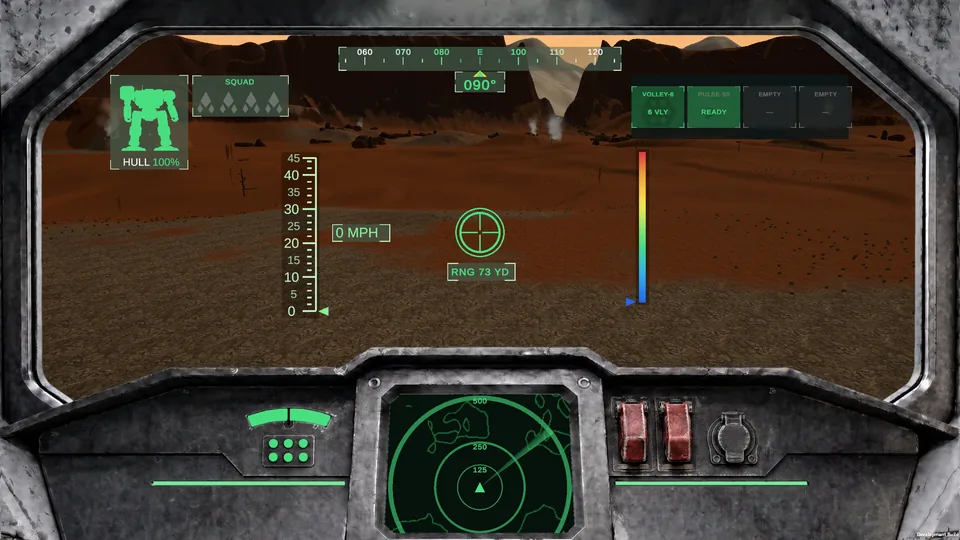
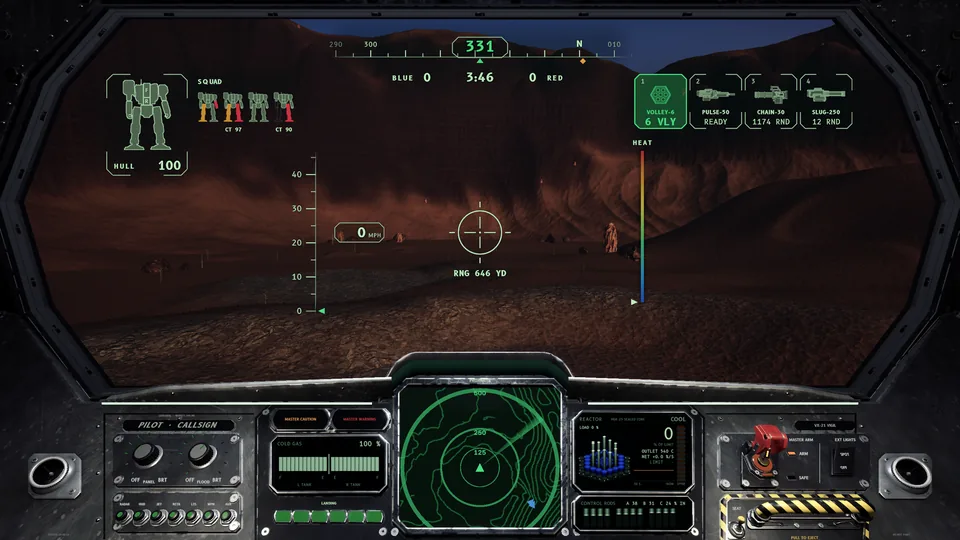
The cockpit picture in Feel the weight, from the new 3D cockpit

diff --git a/thereach/index.html b/thereach/index.html
@@ -18,15 +18,15 @@
   <meta property="og:image:height" content="630">
   <meta name="twitter:card" content="summary_large_image">
 
-  <link rel="icon" href="/favicon.svg?v=3fb1b8b1" type="image/svg+xml">
-  <link rel="icon" href="/favicon-32.png?v=3fb1b8b1" sizes="32x32" type="image/png">
+  <link rel="icon" href="/favicon.svg?v=bbf04369" type="image/svg+xml">
+  <link rel="icon" href="/favicon-32.png?v=bbf04369" sizes="32x32" type="image/png">
   <link rel="apple-touch-icon" href="/apple-touch-icon.png">
 
   <link rel="preload" href="/assets/fonts/BarlowCondensed/BarlowCondensed-SemiBold.ttf" as="font" type="font/ttf" crossorigin>
   <link rel="preload" href="/assets/img/sky-2560.webp" as="image" media="(min-width: 1281px)">
   <link rel="preload" href="/assets/img/sky-1280.webp" as="image" media="(max-width: 1280px)">
-  <link rel="stylesheet" href="/assets/site.css?v=3fb1b8b1">
-  <link rel="stylesheet" href="/drop/drop.css?v=3fb1b8b1">
+  <link rel="stylesheet" href="/assets/site.css?v=bbf04369">
+  <link rel="stylesheet" href="/drop/drop.css?v=bbf04369">
   <script>
     // Boarding: arriving from another site opens on the shipboard network, which assets/site.js draws. Nothing is
     // stored in the browser (the privacy page promises that): a reload, Back, or a link from this site skips it. This
@@ -41,20 +41,20 @@
       }
     } catch (error) { /* no boarding screen */ }
   </script>
-  <script src="/assets/ship.js?v=3fb1b8b1" defer></script>
-  <script src="/assets/prealpha.js?v=3fb1b8b1" defer></script>
-  <script src="/assets/crossing.js?v=3fb1b8b1" defer></script>
-  <script src="/assets/site.js?v=3fb1b8b1" defer></script>
-  <script src="/drop/drop.js?v=3fb1b8b1" defer></script>
-  <script src="/assets/patch.js?v=3fb1b8b1" defer></script>
-  <script src="/assets/patchmaker.js?v=3fb1b8b1" defer></script>
-  <script src="/assets/front.js?v=3fb1b8b1" defer></script>
-  <script src="/assets/loadouts.js?v=3fb1b8b1" defer></script>
-  <script src="/assets/bench.js?v=3fb1b8b1" defer></script>
-  <script src="/assets/valor.js?v=3fb1b8b1" defer></script>
-  <script src="/assets/ranks.js?v=3fb1b8b1" defer></script>
-  <script src="/assets/story.js?v=3fb1b8b1" defer></script>
-  <script src="/assets/lands.js?v=3fb1b8b1" defer></script>
+  <script src="/assets/ship.js?v=bbf04369" defer></script>
+  <script src="/assets/prealpha.js?v=bbf04369" defer></script>
+  <script src="/assets/crossing.js?v=bbf04369" defer></script>
+  <script src="/assets/site.js?v=bbf04369" defer></script>
+  <script src="/drop/drop.js?v=bbf04369" defer></script>
+  <script src="/assets/patch.js?v=bbf04369" defer></script>
+  <script src="/assets/patchmaker.js?v=bbf04369" defer></script>
+  <script src="/assets/front.js?v=bbf04369" defer></script>
+  <script src="/assets/loadouts.js?v=bbf04369" defer></script>
+  <script src="/assets/bench.js?v=bbf04369" defer></script>
+  <script src="/assets/valor.js?v=bbf04369" defer></script>
+  <script src="/assets/ranks.js?v=bbf04369" defer></script>
+  <script src="/assets/story.js?v=bbf04369" defer></script>
+  <script src="/assets/lands.js?v=bbf04369" defer></script>
 </head>
 <body>
   <a class="skip" href="#main">Skip to content</a>

diff --git a/hangar/index.html b/hangar/index.html
@@ -16,18 +16,18 @@
   <meta property="og:image:height" content="630">
   <meta name="twitter:card" content="summary_large_image">
   <meta name="theme-color" content="#07090d">
-  <link rel="icon" href="/favicon.svg?v=3fb1b8b1" type="image/svg+xml">
-  <link rel="icon" href="/favicon-32.png?v=3fb1b8b1" sizes="32x32" type="image/png">
+  <link rel="icon" href="/favicon.svg?v=bbf04369" type="image/svg+xml">
+  <link rel="icon" href="/favicon-32.png?v=bbf04369" sizes="32x32" type="image/png">
   <link rel="apple-touch-icon" href="/apple-touch-icon.png">
   <link rel="preload" href="/hangar/bay/plate.webp" as="image">
   <link rel="preload" href="/hangar/spin/base/vigil-000.webp" as="image">
-  <link rel="stylesheet" href="/assets/site.css?v=3fb1b8b1">
-  <link rel="stylesheet" href="/hangar/hangar.css?v=3fb1b8b1">
-  <script src="/assets/ship.js?v=3fb1b8b1" defer></script>
-  <script src="/assets/prealpha.js?v=3fb1b8b1" defer></script>
-  <script src="/assets/site.js?v=3fb1b8b1" defer></script>
-  <script src="/assets/loadouts.js?v=3fb1b8b1" defer></script>
-  <script src="/hangar/hangar.js?v=3fb1b8b1" defer></script>
+  <link rel="stylesheet" href="/assets/site.css?v=bbf04369">
+  <link rel="stylesheet" href="/hangar/hangar.css?v=bbf04369">
+  <script src="/assets/ship.js?v=bbf04369" defer></script>
+  <script src="/assets/prealpha.js?v=bbf04369" defer></script>
+  <script src="/assets/site.js?v=bbf04369" defer></script>
+  <script src="/assets/loadouts.js?v=bbf04369" defer></script>
+  <script src="/hangar/hangar.js?v=bbf04369" defer></script>
 </head>
 <body>
   <a class="skip" href="#hangar">Skip to content</a>

diff --git a/physics/index.html b/physics/index.html
@@ -16,15 +16,15 @@
   <meta property="og:image:height" content="630">
   <meta name="twitter:card" content="summary_large_image">
   <meta name="theme-color" content="#07090d">
-  <link rel="icon" href="/favicon.svg?v=3fb1b8b1" type="image/svg+xml">
-  <link rel="icon" href="/favicon-32.png?v=3fb1b8b1" sizes="32x32" type="image/png">
+  <link rel="icon" href="/favicon.svg?v=bbf04369" type="image/svg+xml">
+  <link rel="icon" href="/favicon-32.png?v=bbf04369" sizes="32x32" type="image/png">
   <link rel="apple-touch-icon" href="/apple-touch-icon.png">
-  <link rel="stylesheet" href="/assets/site.css?v=3fb1b8b1">
-  <link rel="stylesheet" href="/physics/physics.css?v=3fb1b8b1">
-  <script src="/assets/ship.js?v=3fb1b8b1" defer></script>
-  <script src="/assets/prealpha.js?v=3fb1b8b1" defer></script>
-  <script src="/assets/site.js?v=3fb1b8b1" defer></script>
-  <script src="/physics/physics.js?v=3fb1b8b1" defer></script>
+  <link rel="stylesheet" href="/assets/site.css?v=bbf04369">
+  <link rel="stylesheet" href="/physics/physics.css?v=bbf04369">
+  <script src="/assets/ship.js?v=bbf04369" defer></script>
+  <script src="/assets/prealpha.js?v=bbf04369" defer></script>
+  <script src="/assets/site.js?v=bbf04369" defer></script>
+  <script src="/physics/physics.js?v=bbf04369" defer></script>
 </head>
 <body>
   <a class="skip" href="#physics">Skip to content</a>

diff --git a/armory/index.html b/armory/index.html
@@ -16,15 +16,15 @@
   <meta property="og:image:height" content="630">
   <meta name="twitter:card" content="summary_large_image">
   <meta name="theme-color" content="#07090d">
-  <link rel="icon" href="/favicon.svg?v=3fb1b8b1" type="image/svg+xml">
-  <link rel="icon" href="/favicon-32.png?v=3fb1b8b1" sizes="32x32" type="image/png">
+  <link rel="icon" href="/favicon.svg?v=bbf04369" type="image/svg+xml">
+  <link rel="icon" href="/favicon-32.png?v=bbf04369" sizes="32x32" type="image/png">
   <link rel="apple-touch-icon" href="/apple-touch-icon.png">
-  <link rel="stylesheet" href="/assets/site.css?v=3fb1b8b1">
-  <link rel="stylesheet" href="/armory/armory.css?v=3fb1b8b1">
-  <script src="/assets/ship.js?v=3fb1b8b1" defer></script>
-  <script src="/assets/prealpha.js?v=3fb1b8b1" defer></script>
-  <script src="/assets/site.js?v=3fb1b8b1" defer></script>
-  <script src="/armory/armory.js?v=3fb1b8b1" defer></script>
+  <link rel="stylesheet" href="/assets/site.css?v=bbf04369">
+  <link rel="stylesheet" href="/armory/armory.css?v=bbf04369">
+  <script src="/assets/ship.js?v=bbf04369" defer></script>
+  <script src="/assets/prealpha.js?v=bbf04369" defer></script>
+  <script src="/assets/site.js?v=bbf04369" defer></script>
+  <script src="/armory/armory.js?v=bbf04369" defer></script>
 </head>
 <body>
   <a class="skip" href="#armory">Skip to content</a>

diff --git a/presskit/index.html b/presskit/index.html
@@ -7,10 +7,10 @@
   <meta name="description" content="Fact sheet, descriptions, art and logos for The Reach: Unknown, a persistent first-person mech war from Mach Tuck Games.">
   <link rel="canonical" href="https://machtuck.com/presskit/">
   <meta name="theme-color" content="#07090d">
-  <link rel="icon" href="/favicon.svg?v=3fb1b8b1" type="image/svg+xml">
-  <link rel="icon" href="/favicon-32.png?v=3fb1b8b1" sizes="32x32" type="image/png">
-  <link rel="stylesheet" href="/assets/site.css?v=3fb1b8b1">
-  <script src="/assets/prealpha.js?v=3fb1b8b1" defer></script>
+  <link rel="icon" href="/favicon.svg?v=bbf04369" type="image/svg+xml">
+  <link rel="icon" href="/favicon-32.png?v=bbf04369" sizes="32x32" type="image/png">
+  <link rel="stylesheet" href="/assets/site.css?v=bbf04369">
+  <script src="/assets/prealpha.js?v=bbf04369" defer></script>
 </head>
 <body class="doc-page">
   <header class="doc-bar">

diff --git a/welcome/index.html b/welcome/index.html
@@ -8,10 +8,10 @@
   <!-- Where Kit sends a pilot after the closed beta form (the form's redirect setting in Kit). Linked from nowhere on the site. -->
   <meta name="robots" content="noindex">
   <meta name="theme-color" content="#07090d">
-  <link rel="icon" href="/favicon.svg?v=3fb1b8b1" type="image/svg+xml">
-  <link rel="icon" href="/favicon-32.png?v=3fb1b8b1" sizes="32x32" type="image/png">
-  <link rel="stylesheet" href="/assets/site.css?v=3fb1b8b1">
-  <script src="/assets/site.js?v=3fb1b8b1" defer></script>
+  <link rel="icon" href="/favicon.svg?v=bbf04369" type="image/svg+xml">
+  <link rel="icon" href="/favicon-32.png?v=bbf04369" sizes="32x32" type="image/png">
+  <link rel="stylesheet" href="/assets/site.css?v=bbf04369">
+  <script src="/assets/site.js?v=bbf04369" defer></script>
 </head>
 <body class="doc-page">
   <header class="doc-bar">

diff --git a/front/index.html b/front/index.html
@@ -16,8 +16,8 @@
 <meta property="og:image:width" content="1200">
 <meta property="og:image:height" content="630">
 <meta name="twitter:card" content="summary_large_image">
-<link rel="icon" href="/favicon.svg?v=3fb1b8b1" type="image/svg+xml">
-<link rel="icon" href="/favicon-32.png?v=3fb1b8b1" sizes="32x32" type="image/png">
+<link rel="icon" href="/favicon.svg?v=bbf04369" type="image/svg+xml">
+<link rel="icon" href="/favicon-32.png?v=bbf04369" sizes="32x32" type="image/png">
 <link rel="apple-touch-icon" href="/apple-touch-icon.png">
 <!-- The Front explorer: the game's map plate over the explorer's ridged relief (Tools/front/explorer/bake_explorer_relief.py),
      drawn with the site's war-table engine (Website/assets/front.js). Assembled into one offline file by build_explorer.py:

diff --git a/community-terms/index.html b/community-terms/index.html
@@ -7,9 +7,9 @@
   <meta name="description" content="What happens to the ideas and feedback you share with Mach Tuck Games in our Discord, on our site or in our game.">
   <link rel="canonical" href="https://machtuck.com/community-terms/">
   <meta name="theme-color" content="#07090d">
-  <link rel="icon" href="/favicon.svg?v=3fb1b8b1" type="image/svg+xml">
-  <link rel="icon" href="/favicon-32.png?v=3fb1b8b1" sizes="32x32" type="image/png">
-  <link rel="stylesheet" href="/assets/site.css?v=3fb1b8b1">
+  <link rel="icon" href="/favicon.svg?v=bbf04369" type="image/svg+xml">
+  <link rel="icon" href="/favicon-32.png?v=bbf04369" sizes="32x32" type="image/png">
+  <link rel="stylesheet" href="/assets/site.css?v=bbf04369">
 </head>
 <body class="doc-page">
   <header class="doc-bar">

diff --git a/privacy/index.html b/privacy/index.html
@@ -7,9 +7,9 @@
   <meta name="description" content="What machtuck.com collects: only what you send through the closed beta form. No cookies, no analytics, no tracking.">
   <link rel="canonical" href="https://machtuck.com/privacy/">
   <meta name="theme-color" content="#07090d">
-  <link rel="icon" href="/favicon.svg?v=3fb1b8b1" type="image/svg+xml">
-  <link rel="icon" href="/favicon-32.png?v=3fb1b8b1" sizes="32x32" type="image/png">
-  <link rel="stylesheet" href="/assets/site.css?v=3fb1b8b1">
+  <link rel="icon" href="/favicon.svg?v=bbf04369" type="image/svg+xml">
+  <link rel="icon" href="/favicon-32.png?v=bbf04369" sizes="32x32" type="image/png">
+  <link rel="stylesheet" href="/assets/site.css?v=bbf04369">
 </head>
 <body class="doc-page">
   <header class="doc-bar">

diff --git a/art/index.html b/art/index.html
@@ -7,9 +7,9 @@
   <meta name="description" content="How the art of The Reach: Unknown is made, and where AI tools come in.">
   <link rel="canonical" href="https://machtuck.com/art/">
   <meta name="theme-color" content="#07090d">
-  <link rel="icon" href="/favicon.svg?v=3fb1b8b1" type="image/svg+xml">
-  <link rel="icon" href="/favicon-32.png?v=3fb1b8b1" sizes="32x32" type="image/png">
-  <link rel="stylesheet" href="/assets/site.css?v=3fb1b8b1">
+  <link rel="icon" href="/favicon.svg?v=bbf04369" type="image/svg+xml">
+  <link rel="icon" href="/favicon-32.png?v=bbf04369" sizes="32x32" type="image/png">
+  <link rel="stylesheet" href="/assets/site.css?v=bbf04369">
 </head>
 <body class="doc-page">
   <header class="doc-bar">

diff --git a/drop/index.html b/drop/index.html
@@ -7,10 +7,10 @@
   <!-- A test page for the scroll drop: linked from nothing and kept out of search. -->
   <meta name="robots" content="noindex">
   <meta name="theme-color" content="#07090d">
-  <link rel="icon" href="/favicon.svg?v=3fb1b8b1" type="image/svg+xml">
-  <link rel="stylesheet" href="/assets/site.css?v=3fb1b8b1">
-  <link rel="stylesheet" href="/drop/drop.css?v=3fb1b8b1">
-  <script src="/drop/drop.js?v=3fb1b8b1" defer></script>
+  <link rel="icon" href="/favicon.svg?v=bbf04369" type="image/svg+xml">
+  <link rel="stylesheet" href="/assets/site.css?v=bbf04369">
+  <link rel="stylesheet" href="/drop/drop.css?v=bbf04369">
+  <script src="/drop/drop.js?v=bbf04369" defer></script>
 </head>
 <body>
   <main>

diff --git a/terms/index.html b/terms/index.html
@@ -7,9 +7,9 @@
   <meta name="description" content="The terms of use for machtuck.com.">
   <link rel="canonical" href="https://machtuck.com/terms/">
   <meta name="theme-color" content="#07090d">
-  <link rel="icon" href="/favicon.svg?v=3fb1b8b1" type="image/svg+xml">
-  <link rel="icon" href="/favicon-32.png?v=3fb1b8b1" sizes="32x32" type="image/png">
-  <link rel="stylesheet" href="/assets/site.css?v=3fb1b8b1">
+  <link rel="icon" href="/favicon.svg?v=bbf04369" type="image/svg+xml">
+  <link rel="icon" href="/favicon-32.png?v=bbf04369" sizes="32x32" type="image/png">
+  <link rel="stylesheet" href="/assets/site.css?v=bbf04369">
 </head>
 <body class="doc-page">
   <header class="doc-bar">
